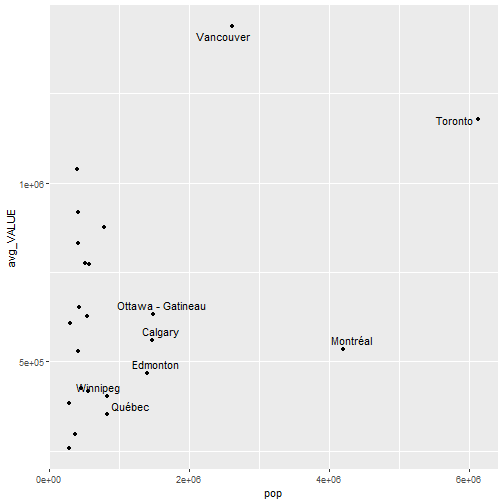
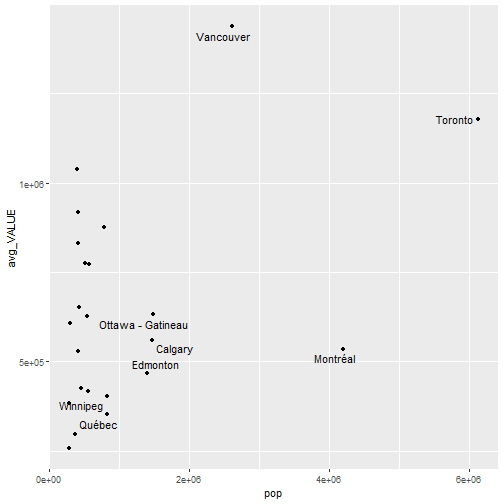
Update docs with root-relative paths for data

diff --git a/docs/09_ggplot2_1.html b/docs/09_ggplot2_1.html
@@ -442,7 +442,7 @@ Sort the remaining observations in the descending order of avg_VALUE.
 .tiny[
 
 ``` r
-pumf &lt;- read_rds("../Data/2021_census_pumf_ind.rds")
+pumf &lt;- read_rds("Data/2021_census_pumf_ind.rds")
 pumf &lt;- pumf %&gt;% mutate(VALUE2 = case_when( Value &gt; 80000000 ~ NA_real_, .default = Value))
 
 temp &lt;- pumf %&gt;% group_by(CMA) %&gt;% 

diff --git a/docs/10_ggplot2_2.html b/docs/10_ggplot2_2.html
@@ -53,7 +53,7 @@ library(tidyverse)
 
 
 ``` r
-bca &lt;- read_rds("../Data/bca252.rds")
+bca &lt;- read_rds("Data/bca252.rds")
 ```
 
 ---
